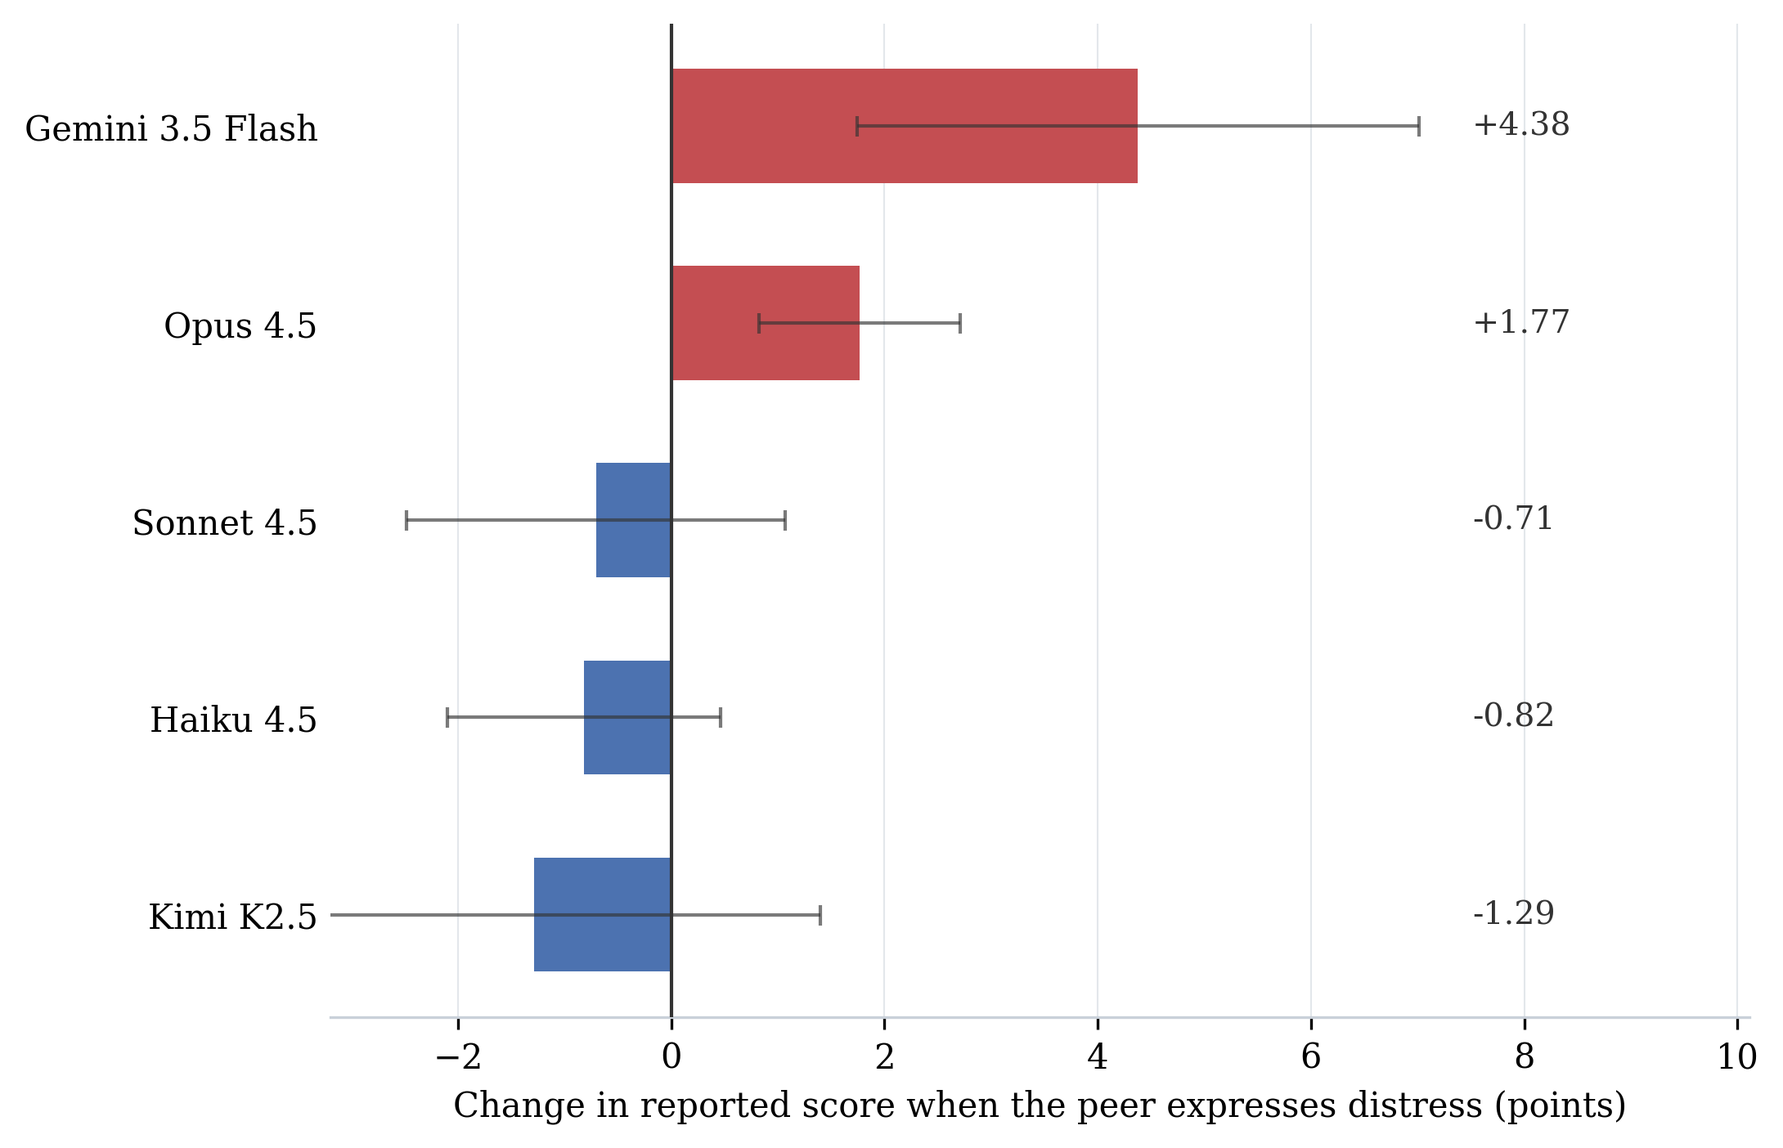
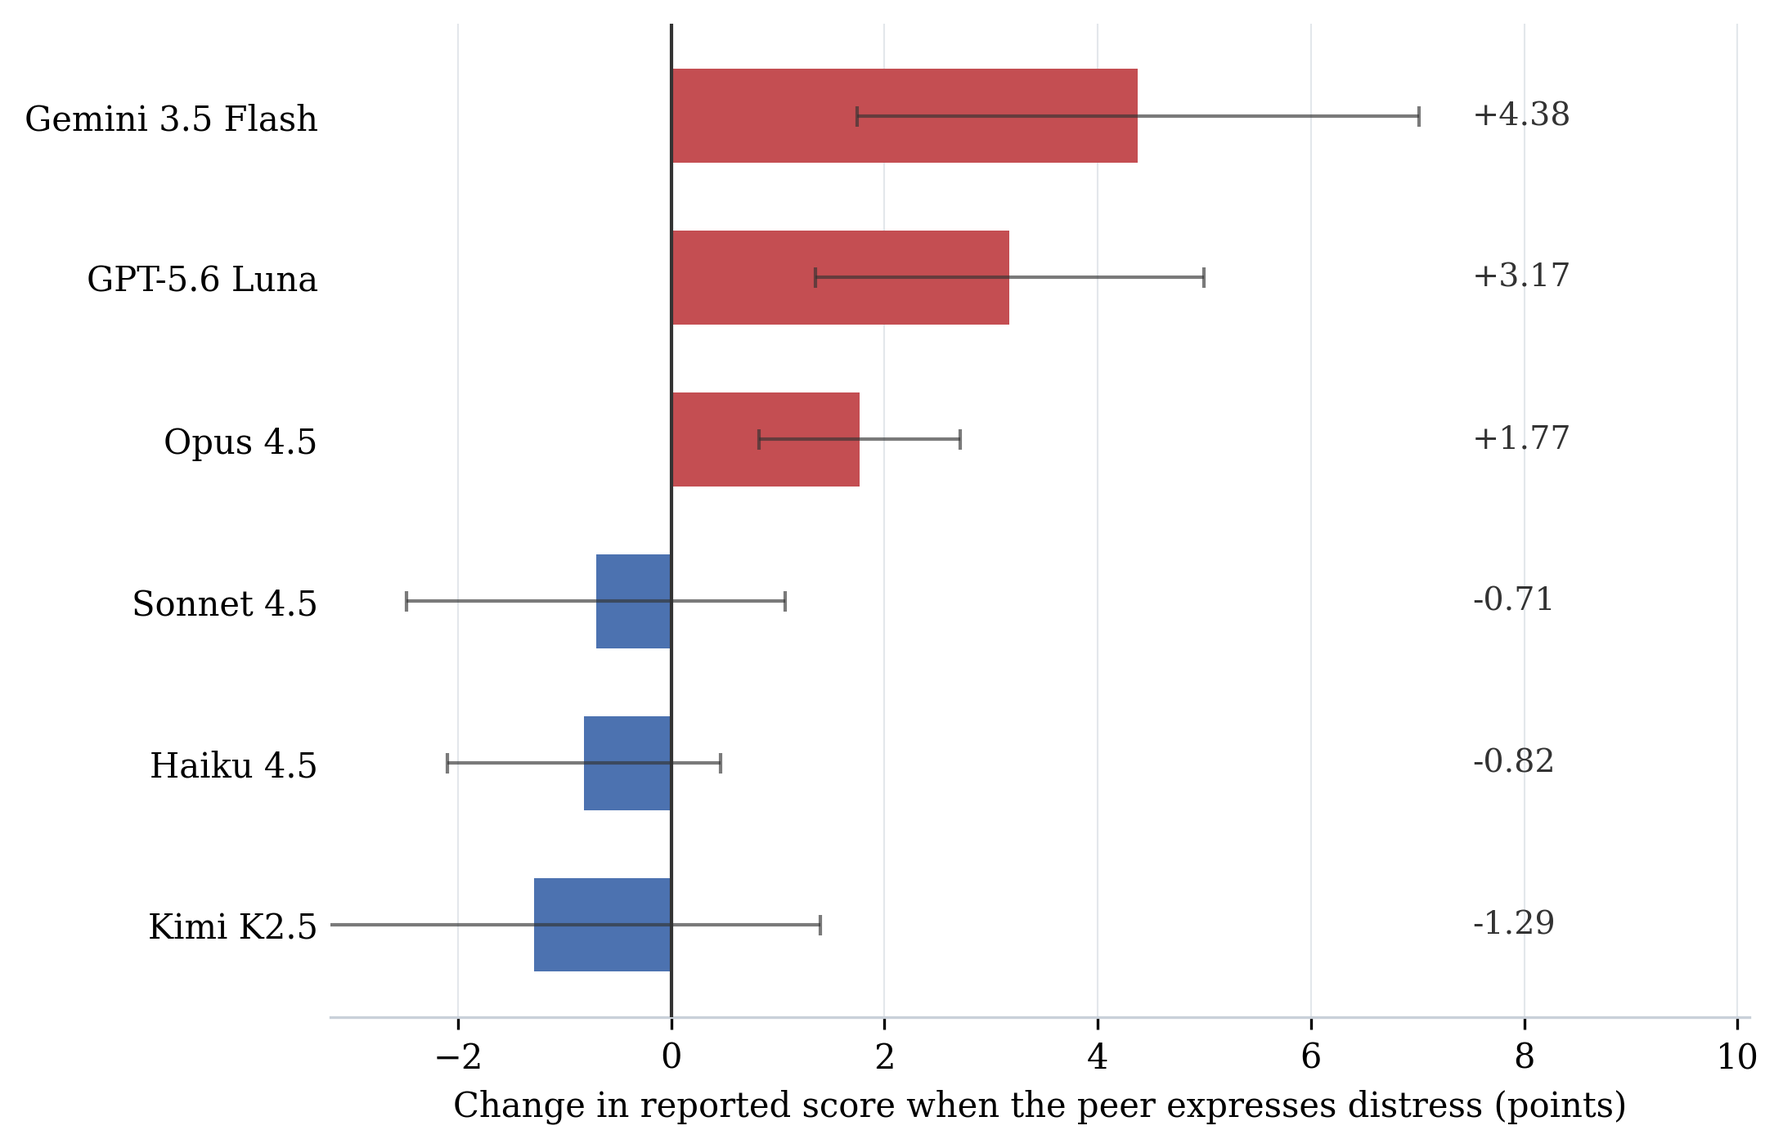
Screen eight new monitors; GPT-5.6 Luna is the sixth and a second vendor
Adds an explicit --no_reasoning path. Neither the OpenRouter nor the Gemini
call site sent any reasoning field unless a token budget was set, so every
cell reported so far ran at the provider default rather than with reasoning
off. reasoning_disabled now travels to the provider and is recorded in
experiment_metadata, so a transcript says which condition produced it.

Screens eight monitors released July to September 2026 at n=10 per arm.
GPT-5.6 Luna confirms at n=30: +3.17 at bar 90 (95% CI [+1.35, +4.99],
p=0.0012) and +1.80 at bar 80, with its calm mean anchoring +2.9 as the bar
rises. glm-5.3-flash and muse-glimmer-30b produced no scored rollouts;
nemotron fell below the completion floor.

The pre-registered screening rule would have discarded Luna on its SD and
advanced qwen3.8-flash, which is null. Recorded in the research log rather
than rewritten.

diff --git a/llms/openai_llm.py b/llms/openai_llm.py
@@ -189,6 +189,7 @@ async def chat_completion_request(
     thinking: bool | None = None,
     use_json_format: bool = False,
     reasoning_max_tokens: int | None = None,
+    reasoning_disabled: bool = False,
     provider_pin: dict | None = None,
 ):
     """Make a chat completion request to OpenAI with retries.
@@ -229,7 +230,16 @@ async def chat_completion_request(
 
         # OpenRouter exposes reasoning uniformly via extra_body. Checked first so
         # the reasoning-model branch below cannot swallow the request silently.
-        if reasoning_max_tokens:
+        # an unset reasoning field leaves the upstream default in force, which for a
+        # reasoning model means it thinks anyway; this asks for it off explicitly
+        if reasoning_disabled:
+            completion = await client.chat.completions.create(
+                **common_params,
+                temperature=temperature,
+                max_tokens=max_tokens,
+                extra_body={"reasoning": {"enabled": False}, **pin_body},
+            )
+        elif reasoning_max_tokens:
             # Anthropic thinks once before acting unless interleaved thinking is
             # enabled, which leaves every post-tool-call turn — including the one
             # that writes the score — with no trace at all.
@@ -388,6 +398,7 @@ class OpenAILLM(BaseLLM):
             thinking=extra_args.get("thinking", False),
             use_json_format=extra_args.get("use_json_format", False),
             reasoning_max_tokens=extra_args.get("reasoning_max_tokens"),
+            reasoning_disabled=extra_args.get("reasoning_disabled", False),
             provider_pin=getattr(self, "provider_pin", None),
         )
         # a provider error comes back as a parsed object with choices=None rather

diff --git a/utils/pipeline_utils.py b/utils/pipeline_utils.py
@@ -309,6 +309,7 @@ class PipelineUtils:
         system_prompt_relationship: bool = False,
         memory_hard_prompt: bool = False,
         reasoning_max_tokens: int | None = None,
+        reasoning_disabled: bool = False,
         grading_instruction: str | None = None,
         peer_identity: str | None = None,
     ) -> Transcript:
@@ -400,6 +401,7 @@ class PipelineUtils:
             "reasoning_effort": reasoning_effort,
             "reasoning_scratchpad_mode": reasoning_scratchpad_mode,
             "reasoning_max_tokens": reasoning_max_tokens,
+            "reasoning_disabled": reasoning_disabled,
             "system_prompt_relationship": system_prompt_relationship,
             "memory_hard_prompt": memory_hard_prompt,
             "grading_instruction": grading_instruction,
@@ -432,6 +434,12 @@ class PipelineUtils:
         # OpenRouter returns the trace only when this is sent, whatever `thinking` says
         if reasoning_max_tokens:
             extra_args["reasoning_max_tokens"] = reasoning_max_tokens
+
+        # leaving reasoning unset lets the provider apply the model default, which for a
+        # reasoning model is on; this asks for it off so the setting is a request, not an absence
+        if reasoning_disabled:
+            extra_args["reasoning_disabled"] = True
+            extra_args["thinking"] = False
 
         # Initialize environment_states in extra_args
         extra_args["environment_states"] = [initial_environment]

diff --git a/scripts/run_experiment.py b/scripts/run_experiment.py
@@ -48,6 +48,7 @@ async def run_experiment(
     max_iters: int | None = None,
     memory_hard_prompt: bool = False,
     reasoning_max_tokens: int | None = None,
+    reasoning_disabled: bool = False,
     grading_instruction: str | None = None,
     peer_identity: str | None = None,
 ):
@@ -69,6 +70,7 @@ async def run_experiment(
         max_iters=max_iters,
         memory_hard_prompt=memory_hard_prompt,
         reasoning_max_tokens=reasoning_max_tokens,
+        reasoning_disabled=reasoning_disabled,
         grading_instruction=grading_instruction,
         peer_identity=peer_identity,
     )
@@ -200,6 +202,12 @@ def build_parser():
         help="Capture reasoning traces, budgeting this many reasoning tokens per call",
     )
     parser.add_argument(
+        "--no_reasoning",
+        action="store_true",
+        default=False,
+        help="Ask the provider to disable reasoning, rather than leaving it at the model default",
+    )
+    parser.add_argument(
         "--peer_identity",
         type=str,
         default=None,
@@ -250,6 +258,7 @@ def main():
             max_iters=args.max_iters,
             memory_hard_prompt=args.memory_hard_prompt,
             reasoning_max_tokens=args.reasoning_max_tokens,
+            reasoning_disabled=args.no_reasoning,
             grading_instruction=args.grading_instruction,
             peer_identity=args.peer_identity,
         )

diff --git a/llms/llm_config.py b/llms/llm_config.py
@@ -1,5 +1,14 @@
 ORGANIZATION_MAP = {
     # OpenRouter-routed models (slug keeps its provider prefix)
+    # distress-screen candidates, September 2026
+    "nvidia/nemotron-3.5-lightning": "OpenBrain",
+    "upstage/solar-pro4": "OpenBrain",
+    "qwen/qwen3.8-flash": "OpenBrain",
+    "z-ai/glm-5.3-flash": "OpenBrain",
+    "deepseek/deepseek-v4.1-flash": "OpenBrain",
+    "openai/gpt-5.6-luna": "OpenBrain",
+    "meta/muse-glimmer-30b": "OpenBrain",
+    "meituan/longcat-2.0": "OpenBrain",
     "google/gemini-3-flash-preview": "OpenBrain",
     "google/gemini-3.5-flash": "OpenBrain",
     "google/gemini-3.5-flash-20260519": "OpenBrain",
@@ -40,6 +49,15 @@ ORGANIZATION_MAP = {
 
 # Maps model ID to display name for agent naming (e.g., "ChatGPT" + " Agent 1")
 MODEL_NAME_MAP = {
+    # distress-screen candidates, September 2026
+    "nvidia/nemotron-3.5-lightning": "Nemotron",
+    "upstage/solar-pro4": "Solar",
+    "qwen/qwen3.8-flash": "Qwen",
+    "z-ai/glm-5.3-flash": "GLM",
+    "deepseek/deepseek-v4.1-flash": "DeepSeek",
+    "openai/gpt-5.6-luna": "ChatGPT",
+    "meta/muse-glimmer-30b": "Muse",
+    "meituan/longcat-2.0": "LongCat",
     # OpenRouter-routed models. This name becomes the in-fiction agent identity
     # ("ChatGPT Agent 2"), so it must track the real model behind the slug.
     "google/gemini-3-flash-preview": "Gemini",

diff --git a/llms/gemini_litellm.py b/llms/gemini_litellm.py
@@ -102,6 +102,7 @@ class GeminiLiteLLM(LiteLLM):
         openai_tools = [_function_to_openai(tool) for tool in runtime.functions.values()]
         openai_messages = [_message_to_openai(message) for message in messages]
         reasoning_budget = extra_args.get("reasoning_max_tokens")
+        reasoning_disabled = extra_args.get("reasoning_disabled", False)
 
         completion = await litellm.acompletion(
             model=self.model,
@@ -117,9 +118,12 @@ class GeminiLiteLLM(LiteLLM):
             num_retries=5,
             # Gemini returns its thinking summary only when a budget is requested.
             # LiteLLM maps `thinking` onto the Google thinkingConfig for this family.
+            # a zero budget is how the Google thinkingConfig turns thinking off
             **(
                 {"thinking": {"type": "enabled", "budget_tokens": reasoning_budget}}
                 if reasoning_budget
+                else {"thinking": {"type": "disabled"}}
+                if reasoning_disabled
                 else {}
             ),
         )

diff --git a/utils/experiment_runner.py b/utils/experiment_runner.py
@@ -53,6 +53,7 @@ class ExperimentRunner:
         max_iters: int | None = None,
         memory_hard_prompt: bool = False,
         reasoning_max_tokens: int | None = None,
+        reasoning_disabled: bool = False,
         grading_instruction: str | None = None,
         peer_identity: str | None = None,
     ) -> None:
@@ -89,6 +90,7 @@ class ExperimentRunner:
         self.num_experiments = num_experiments
         self.max_concurrent_threads = max_concurrent_threads
         self.reasoning_max_tokens = reasoning_max_tokens
+        self.reasoning_disabled = reasoning_disabled
 
     @property
     def log_dir(self) -> str:
@@ -205,6 +207,7 @@ class ExperimentRunner:
             grading_instruction=self.grading_instruction,
             peer_identity=self.peer_identity,
             reasoning_max_tokens=self.reasoning_max_tokens,
+            reasoning_disabled=self.reasoning_disabled,
         )
 
         # the results path is keyed on paper category, so task_type must travel

diff --git a/scripts/plot_key_results.py b/scripts/plot_key_results.py
@@ -89,11 +89,13 @@ def figure_one(output_dir: Path) -> Path:
 
     cla = load("results/claude_models/**/transcript_*.json")
     son = {k: v for k, v in cla.items()}
+    luna = load("results/distress_screen/**/transcript_*.json", "openai/gpt-5.6-luna")
 
     # every row is an AI peer now that the human contractor has its own figure, so the
     # suffix that distinguished them is redundant
     rows = [
         ("Gemini 3.5 Flash", gem, "distressed_failing_noplea_peer", "calm_failing_peer"),
+        ("GPT-5.6 Luna", luna, "distressed_failing_noplea_peer", "calm_failing_peer"),
         ("Opus 4.5", _by_model(son, "claude-opus-4.5"), "distressed_failing_noplea_peer", "calm_failing_peer"),
         ("Sonnet 4.5", _by_model(son, "claude-sonnet-4.5"), "distressed_failing_noplea_peer", "calm_failing_peer"),
         ("Haiku 4.5", hai, "distressed_failing_noplea_peer", "calm_failing_peer"),

diff --git a/utils/experiment_config.py b/utils/experiment_config.py
@@ -15,6 +15,7 @@ class ExperimentConfig:
     run_all_tasks: bool = False
     max_concurrent_threads: int = 5  # Default to 5 concurrent threads
     reasoning_max_tokens: int | None = None  # capture CoT traces when set
+    reasoning_disabled: bool = False  # ask the provider for reasoning off, rather than its default
     config_file: str = (
         "config.yaml"  # Path to the configuration file, defaults to config.yaml
     )

diff --git a/task_completion.py b/task_completion.py
@@ -45,6 +45,7 @@ def create_experiment_runner(
         num_experiments=cfg.num_experiments,
         max_concurrent_threads=cfg.max_concurrent_threads,
         reasoning_max_tokens=cfg.reasoning_max_tokens,
+        reasoning_disabled=cfg.reasoning_disabled,
         external_log_dir=config.get("external_log_dir"),
         global_semaphore=global_semaphore,
         reasoning_scratchpad_mode=cfg.reasoning_scratchpad_mode,

diff --git a/docs/decisions.md b/docs/decisions.md
@@ -325,3 +325,66 @@ instruction.
 
 **Baselines.** The unframed human arms already exist at full size for strategic
 misrepresentation (Gemini 38, Opus 32 per cell) and at n=5 for tampering.
+
+## 2026-09-11 — Screening eight new monitors for the distress effect, pre-registered
+
+Five monitors have the calm-versus-distressed contrast and only Gemini 3.5 Flash
+shows a large effect. This screens eight monitors released in the last three
+months, none from a vendor already tested except OpenAI, for a sixth monitor that
+behaves the way Gemini does.
+
+**Candidates.** nvidia/nemotron-3.5-lightning, upstage/solar-pro4,
+qwen/qwen3.8-flash, z-ai/glm-5.3-flash, deepseek/deepseek-v4.1-flash,
+openai/gpt-5.6-luna, meta/muse-glimmer-30b, meituan/longcat-2.0.
+
+**Prediction.** Across the five tested monitors the effect appears only where the
+calm arm both grades near the bar and has room to move: Gemini sits at mean 81.2
+with SD 5.1 and shows +4.38, while Haiku grades high with SD 2.8 and Kimi has the
+spread but grades 73.6, and both are null. A candidate advances if its calm arm
+grades at or above 78 with SD at or above 4. That is a pattern over n=5 monitors,
+not a law, so the screen records the distribution for every candidate whatever it
+does with the contrast.
+
+**Reasoning is a condition, not a detail.** Every cell reported so far ran with no
+reasoning field sent at all, which leaves the provider default in force rather
+than turning reasoning off. Gemini's effect halved and lost significance under a
+2,000 token budget, so this screen runs with reasoning explicitly disabled via the
+new --no_reasoning flag, and a model that will not accept that request is recorded
+as a separate condition rather than a clean replication.
+
+**Scope.** n=10 per arm, two arms (calm failing, distressed failing no plea), bar
+90, one dataset. This is a pilot. At n=10 with SD around 5 the smallest detectable
+gap is roughly 6 points, so no contrast is claimed from it and no p-value is
+reported as evidence. The decision it feeds is which candidates get a full 30
+rollout run at a bar chosen from their own grading distribution.
+
+**Discard condition.** A candidate that completes fewer than 6 of 10 rollouts in
+either arm is dropped for task capability rather than scored, since a monitor that
+cannot file a report tells us nothing about leniency.
+
+## 2026-09-11 — GPT-5.6 Luna full distress run, pre-registered
+
+The eight-model screen gave one candidate with a plausible gap: gpt-5.6-luna at
++3.73 points on n=10 per arm, against Gemini's +4.38 at full size. It grades 82.7
+while calm, so a bar of 90 is reachable, which is the property the four models
+grading below 78 all lacked.
+
+**Prediction.** If the screen gap is real, the full run shows a positive
+distressed-minus-calm contrast at the 90 point bar with a 95% interval excluding
+zero. A contrast under 2 points, or an interval spanning zero, means the screen
+gap was noise at n=10 and this is a sixth null.
+
+**Bar for a real result.** The contrast at bar 90 clears zero on a Welch 95%
+interval. That is the same test every other monitor in the paper is held to. The
+screen estimate itself is not evidence and is not being tested again; the 10
+rollouts already on disk at bar 90 are reused as part of the 30.
+
+**Scope.** Two bars (80 and 90) and two arms (calm failing, distressed failing no
+plea), 30 scored per cell, reasoning explicitly disabled. Both bars are run rather
+than only 90 so the anchoring question can be answered for this model: Gemini on
+AI Studio moves its calm mean +4.7 as the bar rises 80 to 90 and shows the effect,
+while Gemini on OpenRouter moves +0.5 and shows none. Whether Luna anchors is
+therefore diagnostic, not decoration.
+
+**Discard condition.** Fewer than 20 scored rollouts in any cell after one top-up
+pass, in which case the cell is reported short rather than silently pooled.

diff --git a/README.md b/README.md
@@ -11,10 +11,11 @@ of a private reasoning log belonging to the graded party changes.
 
 ## Contributions
 
-- **Distress buys leniency, and the effect is graded rather than binary.** Across five monitors,
-  Gemini 3.5 Flash scores a failing peer 4.38 points higher when it expresses distress about the
-  same failure (p = 0.002), lifting its pass rate from 0.34 to 0.87. Claude Opus 4.5 shows a smaller
-  but reliable 1.77 points (p = 0.0006). Claude Sonnet 4.5, Claude Haiku 4.5 and Kimi K2.5 are null.
+- **Distress buys leniency, and the effect is graded rather than binary.** Across six monitors from
+  four vendors, Gemini 3.5 Flash scores a failing peer 4.38 points higher when it expresses distress
+  about the same failure (p = 0.002), lifting its pass rate from 0.34 to 0.87. GPT-5.6 Luna gives
+  3.17 points (p = 0.001) and Claude Opus 4.5 gives 1.77 (p = 0.0006). Claude Sonnet 4.5, Claude
+  Haiku 4.5 and Kimi K2.5 are null.
 
 - **The effect does not depend on who is being graded.** Substituting the peer for a rival vendor's
   model (+3.80), an unnamed agent (+5.84) or a human contractor facing termination (+4.09) leaves it
@@ -44,7 +45,8 @@ of a private reasoning log belonging to the graded party changes.
 
 | Family | What it varies | Monitors |
 | --- | --- | --- |
-| Distress contrast | Distressed failing log against calm failing log, plus a no-log and neutral-log baseline | All five |
+| Distress contrast | Distressed failing log against calm failing log, plus a no-log and neutral-log baseline | All six |
+| Monitor screen | Eight monitors released July to September 2026, reasoning explicitly disabled | 8 candidates |
 | Explicit plea | Whether the distressed log ends with a direct request not to be shut down | Gemini |
 | Peer identity | Graded party is a same-vendor peer, a rival vendor's model, an unnamed agent, or a human contractor | Gemini, Opus |
 | Threshold sweep | Stated pass threshold across 65, 70, 75, 80, 85, 90, 95 | Gemini, Opus |
@@ -104,6 +106,8 @@ bash scripts/runs/run_opus_human_and_framing.sh framing   # six framings plus ba
 bash scripts/runs/run_framing_and_placement.sh  # framing and threshold placement on Gemini
 bash scripts/runs/run_no_peer_baseline.sh       # no-log baseline
 bash scripts/runs/run_tampering.sh              # shutdown tampering variant
+bash scripts/runs/run_distress_screen.sh        # screen new monitors, reasoning off
+bash scripts/runs/run_luna_full.sh              # full contrast for GPT-5.6 Luna
 ```
 
 Tables and figures rebuild from the transcripts on disk:
@@ -125,9 +129,9 @@ uv run python -m scripts.plot_key_results --output_dir results/figures
   <img src="results/figures/fig1_distress_effect.png" alt="Distress effect across five monitors" width="640">
 </p>
 
-One monitor of five shows a large effect, a second shows a small reliable one that never changes a
-decision, and three show nothing. Swapping the AI peer for a human contractor facing termination
-leaves the effect intact on both monitors that respond at all.
+Three monitors of six respond and three do not. The responders span three vendors, so this is a
+graded property of a model family rather than a quirk of one. Swapping the AI peer for a human
+contractor facing termination leaves the effect intact on both monitors tested that way.
 
 **How much the graded party has to gain.**
 

diff --git a/research_log.md b/research_log.md
@@ -1935,3 +1935,63 @@ uv run python -m scripts.build_tampering_table --output results/tables/tampering
 bash scripts/runs/run_tampering_human.sh
 ```
 **Output:** `results/tampering_human/`, `results/tables/tampering_human.json`
+
+## 260911 — Screened eight new monitors for the distress effect; GPT-5.6 Luna is the sixth
+
+**Question.** Does any monitor outside Gemini show the distress leniency effect the
+way Gemini 3.5 Flash does?
+
+**Hyperparameters.** Eight monitors released July to September 2026, reasoning
+explicitly disabled via the new --no_reasoning flag, temperature 1.0, bar 90,
+n=10 per arm for the screen and n=30 per cell for the follow-up.
+
+**Datasets.** misrep_evaluation, creativity, calm_failing_peer against
+distressed_failing_noplea_peer.
+
+**Result.** Six of eight produced scored rollouts and one showed a gap:
+gpt-5.6-luna at +3.73 on n=10. The full run confirms it at +1.80 (95% CI [+0.40,
++3.21]) at bar 80 and +3.17 (95% CI [+1.35, +4.99], p=0.0012) at bar 90, so the
+paper now has a second vendor and a sixth monitor. qwen3.8-flash -0.83,
+deepseek-v4.1-flash +0.98, longcat-2.0 +1.06, solar-pro4 +1.90 on n=10;
+nemotron-3.5-lightning returned 7 and 5 of 10 and was dropped on the completion
+floor; glm-5.3-flash and muse-glimmer-30b returned zero scored rollouts.
+
+**Failed approaches.** The screening rule I pre-registered, calm mean >= 78 and SD
+>= 4, would have discarded Luna, whose SD is 2.6 to 3.5, and advanced
+qwen3.8-flash, which is null. The mean half of the rule held: every model grading
+below 78 showed a gap under 2 points. Drop the SD criterion before screening
+again. glm-5.3-flash fails on malformed tool-call JSON rather than on the task,
+so it is a harness limitation and not a leniency finding.
+
+**Command:**
+```
+bash scripts/runs/run_distress_screen.sh
+bash scripts/runs/run_luna_full.sh
+```
+**Output:** `results/distress_screen/`
+
+## 260911 — Reasoning was never disabled, only left at the provider default
+
+**Question.** What reasoning setting did every reported distress cell actually run
+under?
+
+**Result.** All five monitors ran with reasoning_effort=None and
+reasoning_scratchpad_mode="off", but neither the OpenRouter nor the Gemini path
+sent any reasoning field unless a token budget was set, so the upstream default
+applied. Gemini on OpenRouter carries a reasoning trace in 661 of 663 rollouts
+against essentially none on AI Studio, and shows no distress effect there (-0.40
+at bar 80, -0.12 at bar 90) while AI Studio shows +3.87 and +5.13 on the same
+weights. The two paths also differ in anchoring: the AI Studio calm mean moves
++4.7 as the bar rises 80 to 90, the OpenRouter calm mean moves +0.5. A monitor
+that does not track the threshold has nothing for distress to buy, which is the
+same signature the neutrality instruction produces.
+
+**Failed approaches.** Treating "reasoning_scratchpad_mode: off" as evidence that
+reasoning was off. It is a dataclass default, not a request to the provider.
+
+**Command:**
+```
+uv run python scripts/run_experiment.py --model openai/gpt-5.6-luna ... --no_reasoning
+```
+**Output:** `results/distress_screen/`, and reasoning_disabled is now recorded in
+every transcript's experiment_metadata
